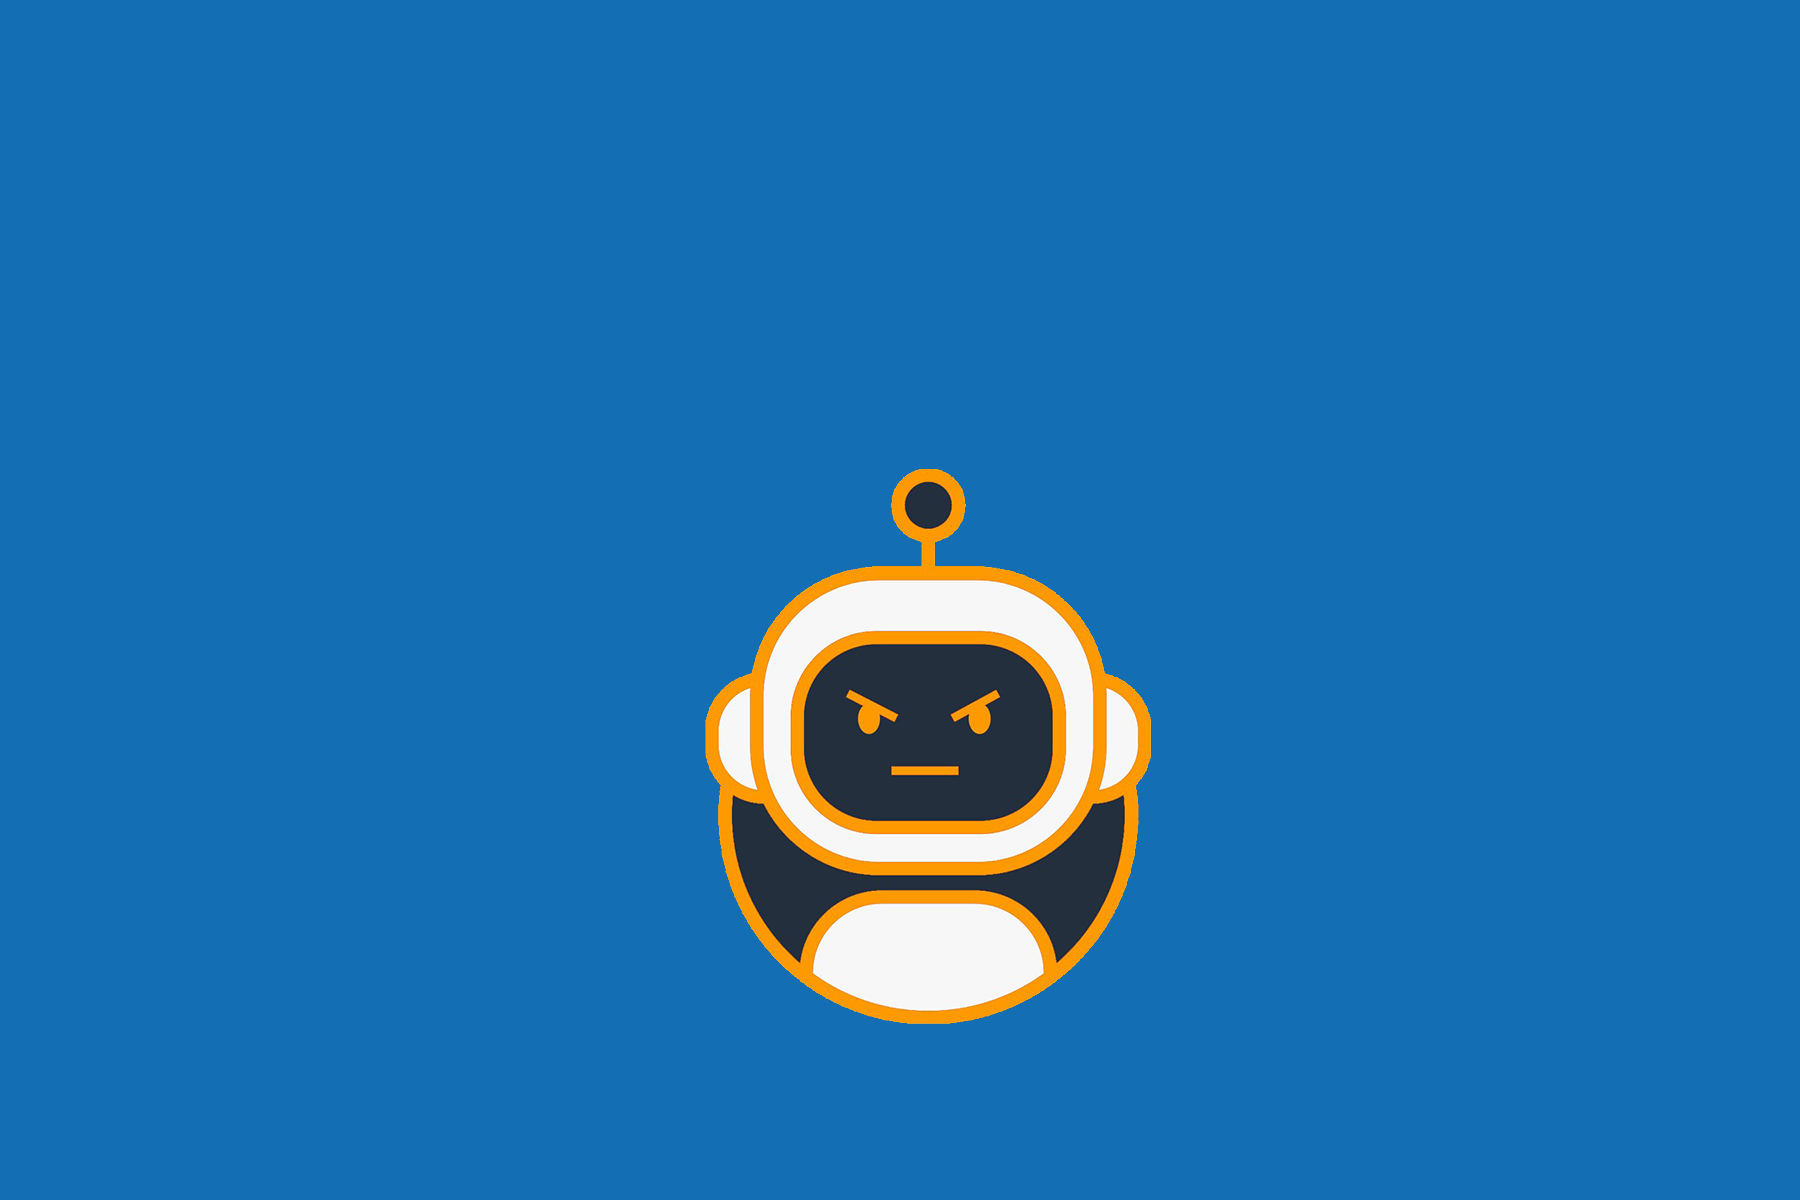
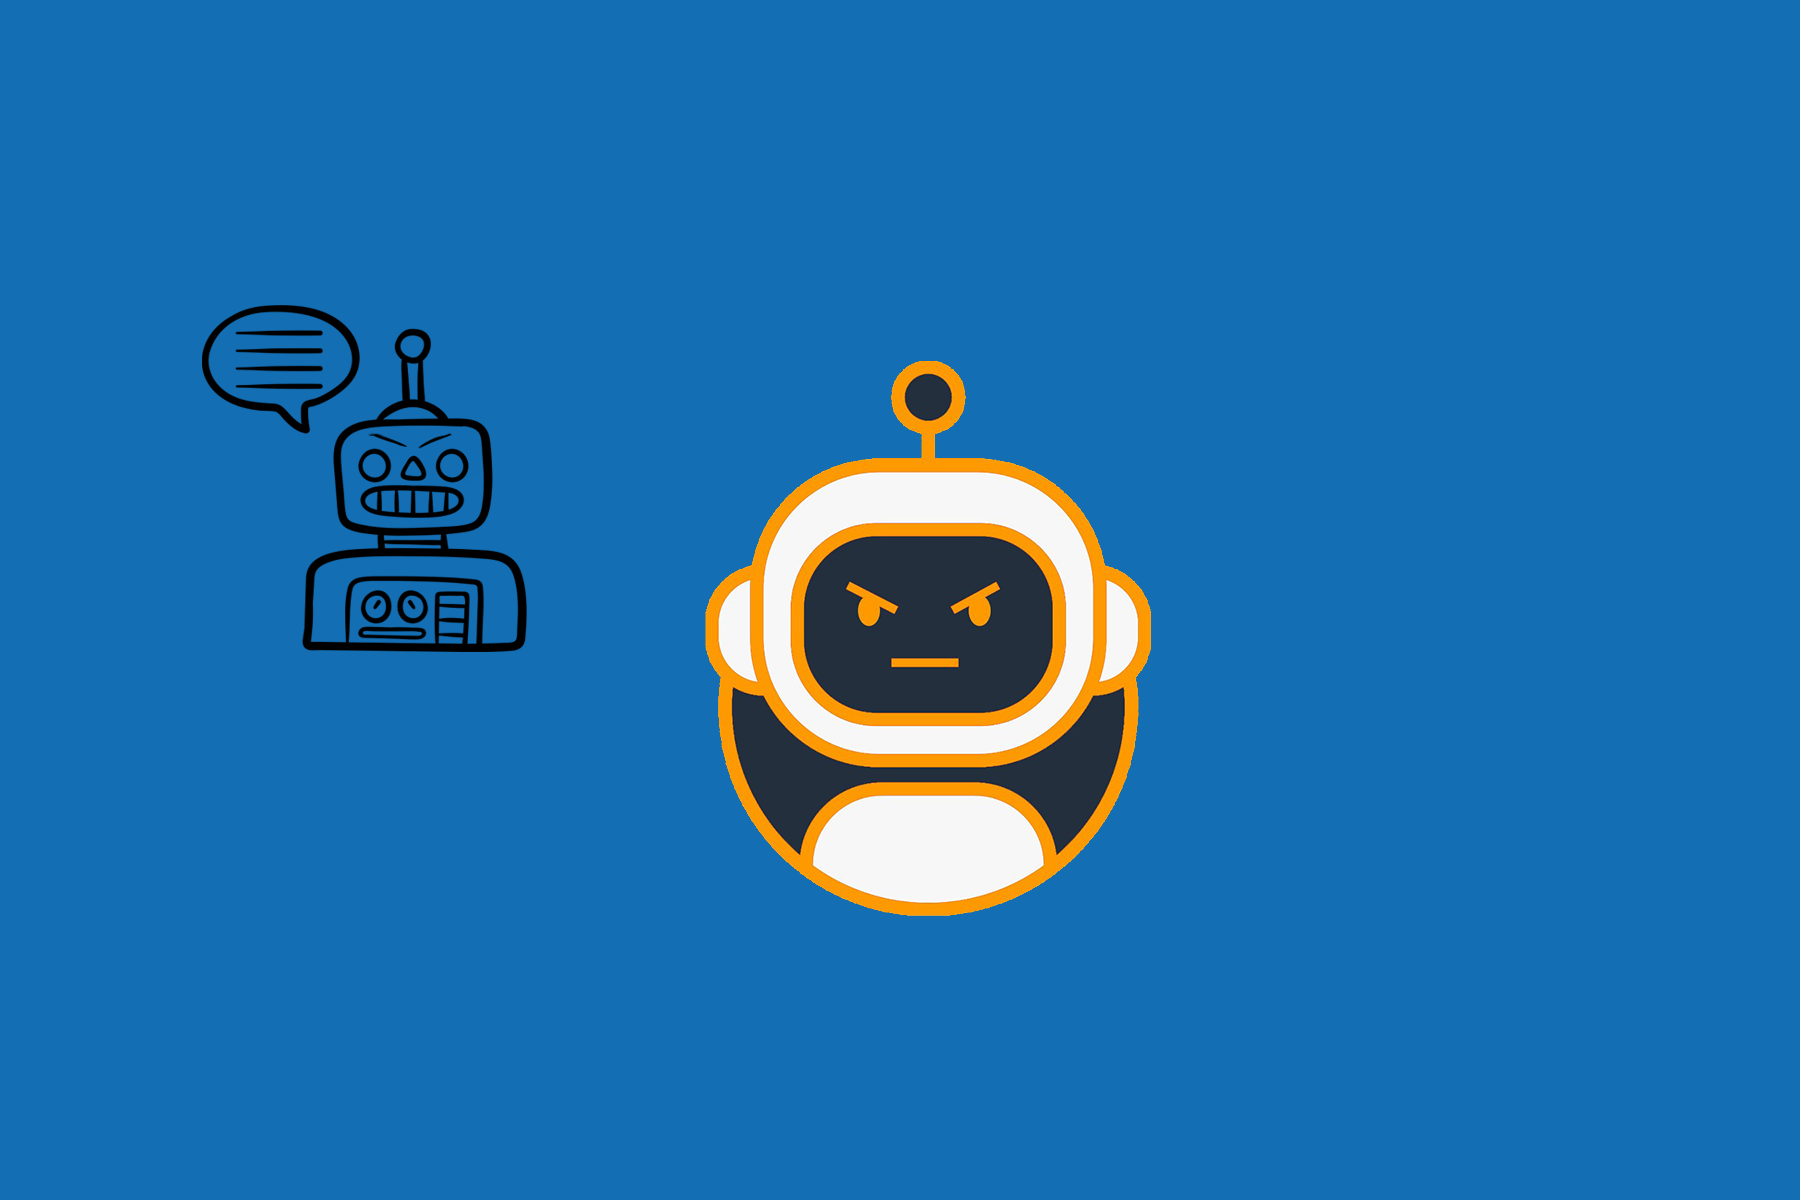
Modularización del código y arreglos en el FrontEnd

Changed region(s): [[0.3733, 0.2775, 0.6533, 0.8633], [0.0933, 0.2467, 0.3111, 0.555]]

diff --git a/index.js b/index.js
@@ -3,64 +3,10 @@ var express = require('express'); //Llamamos a la librería Express (Importar)
 var app = express(); //Ejecutamos la librería Express (Instanciar)
 //Es necesario instalar Express por npm, con el comando: npm install express --save (el --save es para que lo escriba en el package.json)
 var server = require('http').Server(app);//Creamos el servidor http y le pasamos la aplicación Express creada (app)
-const Wit = require('node-wit').Wit;//Llamamos a la librería Wit
+var NodeWit = require('./NodeWit.js');
 
 //Usamos el framework "static" para usar ficheros estáticos (ejemplo imágenes, css, etc.) en nuestro proyecto
 app.use(express.static('public'));
-
-//Token de acceso de nuestra aplicación en Wit
-var ACCESS_TOKEN = "ZBWEIXAHRV7QFSNZCZWL2GTY6DME7CLF";
-
-//Esta función envía la frase a nuestra aplicación en Wit para obtener la data procesada por el PLN
-function enviarFrase(frase) {
-    console.log('Enviando frase: "'+ frase +'" a Wit.AI');
-//Instanciamos un nuevo cliente de Wit
-    const cliente = new Wit({accessToken: ACCESS_TOKEN}); //Creamos el cliente con el Token de nuestra app
-    cliente.message(frase, {}) //Mediante el método "message" enviamos la frase a Wit, usando la instancia de nuestra app recién creada
-    .then((data) => { //En data obtenemos la respuesta de Wit (o sea la frase procesada por PLN)
-      console.log('Respuesta: ' + JSON.stringify(data)); //Mostramos el JSON "raw" o crudo
-      procesarFrase(data); //Llamamos a la función que nos va a procesar esa respuesta para obtener la intención identificada por el PLN
-    })
-    .catch(console.error);
-  }
- //Esta función recibe la data de Wit, cruda, y la procesa para sacar la intención identificada por el PLN
-function procesarFrase(data){
-    console.log("Procesando la data");
-    console.log('Mensaje recibido: "'+ data._text +'"');//En data._text viene el texto o la frase que Wit ha procesado
-    var intenciones = data.entities.intent;//En intenciones almacenamos todas las intenciones que Wit ha identificado y almacenado en la entidad "intent"
-    /*Las dos líneas siguientes las escribimos porque Wit muchas veces identifica más de una intención, cada intención
-    tiene un valor de confianza que determina qué tan acertada es esa intención respecto a la frase enviada,
-    entonces necesitamos obtener la intención con mayor grado de confianza porque esta sería la intención que
-    más se acerque a lo que buscamos con el entrenamiento*/
-    var maxConf = 0;//Variable para identificar la máxima confianza de una intención
-    var mejorIntencion = "";//Variable para almacenar la intención que tiene la mayor confianza
-    /*En este ciclo recorremos las intenciones que Wit ha identificado, para poder obtener lo descrito 
-    en la parte de arriba (La intención con mayor grado de confianza)*/
-    for (i = 0; i < intenciones.length; i++){
-        var confianza = intenciones[i].confidence;//Obtenemos el grado de confianza para esa entidad
-        /*Si la confianza en la intención actual es mayor que la confianza máxima encontrada hasta el momento,
-        entonces esa confianza pasa a ser la confianza máxima y la intención que tenga ese grado de confianza,
-        pasa a ser la mejor intención*/
-        if (confianza > maxConf) { 
-            maxConf = confianza;
-            mejorIntencion = intenciones[i].value;
-        }
-    }
-    //Debug para identificar que sea la mejor intención, con el grado de confianza más alta
-    console.log("Intención identificada: " + mejorIntencion);
-    //Llamamos a la función que va a responder al usuario, según la intención identificada
-    responder(mejorIntencion);
-}
-
-//Esta función responde al usuario, según la intención identificada
-function responder(intencion){
-    //Switch que va a responder según la intención
-    switch(intencion) {
-        case "Saludo":
-            console.log("Respuesta del bot: Hola, qué tal");
-            break;
-    }
-}
 
 //El servidor muestra el index.html cuando se ingresa a la raíz del sitio
 app.get('/', function(req, res){
@@ -73,4 +19,4 @@ server.listen(8080, function(){
 });
 /*Frase de prueba, esta función se llamará cuando se ejecute un método post y se enviará la 
 frase que venga en el request*/
-enviarFrase('Hola man');
+NodeWit.enviarFrase('Hola, ¿qué tal?');

diff --git a/NodeWit.js b/NodeWit.js
@@ -1,0 +1,58 @@
+const Wit = require('node-wit').Wit;//Llamamos a la librería Wit
+
+
+//Token de acceso de nuestra aplicación en Wit
+var ACCESS_TOKEN = "ZBWEIXAHRV7QFSNZCZWL2GTY6DME7CLF";
+
+//Este método envía la frase a nuestra aplicación en Wit para obtener la data procesada por el PLN
+exports.enviarFrase = function (frase) {
+    console.log('Enviando frase: "'+ frase +'" a Wit.AI');
+//Instanciamos un nuevo cliente de Wit
+    const cliente = new Wit({accessToken: ACCESS_TOKEN}); //Creamos el cliente con el Token de nuestra app
+    cliente.message(frase, {}) //Mediante el método "message" enviamos la frase a Wit, usando la instancia de nuestra app recién creada
+    .then((data) => { //En data obtenemos la respuesta de Wit (o sea la frase procesada por PLN)
+      console.log('Respuesta: ' + JSON.stringify(data)); //Mostramos el JSON "raw" o crudo
+      procesarFrase(data); //Llamamos al método que nos va a procesar esa respuesta para obtener la intención identificada por el PLN
+    })
+    .catch(console.error);
+  }
+
+   //Esta función recibe la data de Wit, cruda, y la procesa para sacar la intención identificada por el PLN
+function procesarFrase(data){
+    console.log("Procesando la data");
+    console.log('Mensaje recibido: "'+ data._text +'"');//En data._text viene el texto o la frase que Wit ha procesado
+    var intenciones = data.entities.intent;//En intenciones almacenamos todas las intenciones que Wit ha identificado y almacenado en la entidad "intent"
+    /*Las dos líneas siguientes las escribimos porque Wit muchas veces identifica más de una intención, cada intención
+    tiene un valor de confianza que determina qué tan acertada es esa intención respecto a la frase enviada,
+    entonces necesitamos obtener la intención con mayor grado de confianza porque esta sería la intención que
+    más se acerque a lo que buscamos con el entrenamiento*/
+    var maxConf = 0;//Variable para identificar la máxima confianza de una intención
+    var mejorIntencion = "";//Variable para almacenar la intención que tiene la mayor confianza
+    /*En este ciclo recorremos las intenciones que Wit ha identificado, para poder obtener lo descrito 
+    en la parte de arriba (La intención con mayor grado de confianza)*/
+    for (i = 0; i < intenciones.length; i++){
+        var confianza = intenciones[i].confidence;//Obtenemos el grado de confianza para esa entidad
+        /*Si la confianza en la intención actual es mayor que la confianza máxima encontrada hasta el momento,
+        entonces esa confianza pasa a ser la confianza máxima y la intención que tenga ese grado de confianza,
+        pasa a ser la mejor intención*/
+        if (confianza > maxConf) { 
+            maxConf = confianza;
+            mejorIntencion = intenciones[i].value;
+        }
+    }
+    //Debug para identificar que sea la mejor intención, con el grado de confianza más alta
+    console.log("Intención identificada: " + mejorIntencion);
+    //Llamamos a la función que va a responder al usuario, según la intención identificada
+    responder(mejorIntencion);
+}
+
+//Esta función responde al usuario, según la intención identificada
+function responder(intencion){
+    //Switch que va a responder según la intención
+    switch(intencion) {
+        case "Saludo":
+            console.log("Respuesta del bot: Hola, qué tal");
+            break;
+    }
+}
+

diff --git a/public/index.html b/public/index.html
@@ -61,15 +61,20 @@
                     <div class="row d-flex justify-content-center text-center">
                         <div class="col-md-10">
                             <!-- Heading -->
-                            <h2 class="display-4 font-weight-bold white-text pt-5 mb-2">HectorBot</h2>
+                            <h2 class="display-4 font-weight-bold white-text pt-5 mb-2 HB">HectorBot</h2>
                             <!-- Divider -->
-                            <hr class="hr-light">
+                            <hr class="hr-light HL">
+                            <div class="HBimg">
+                                <img src="/imagenes/chatbot.png" alt="">
+                            </div>
                             <!-- Description -->
                             <!--<h4 class="white-text my-4">Chupame la pija, maestro.</h4>-->
                             <!--<div class="container-fluid d-flex align-items-center justify-content-center h-100">
                                 <button type="button" class="btn btn-outline-white">Saber más<i class="fa fa-book ml-2"></i></button>
                             </div>-->
-
+                            <div class="abajo">
+                                <a href="#codigo"><img src="/imagenes/Singn-down.png" alt=""></a>
+                            </div>
                         </div>
                     </div>
                 </div>
@@ -77,6 +82,13 @@
         </div>
         <!--/.Mask-->
     </header>
+    <main class="mt-5">
+        <div class="container">
+            <section id="codigo" class="text-center">
+                <h2 class="mb-5 font-weight-bold">Código</h2>
+            </section>
+        </div>
+    </main>
 
     <!-- SCRIPTS -->
     <!-- JQuery -->

diff --git a/public/css/style.css b/public/css/style.css
@@ -6,11 +6,43 @@ header,
 }
 
 #intro {
-    background: url("/imagenes/HB.png")no-repeat center center fixed;
+    background: url("/imagenes/HB1.png")no-repeat center center fixed;
     -webkit-background-size: cover;
     -moz-background-size: cover;
     -o-background-size: cover;
     background-size: cover;
+}
+
+.abajo {
+  position: absolute;
+  top: 327%;
+  left: 54%;
+  transform: translate(-17%, -50%);
+
+}
+
+.HBimg {
+  position: absolute;
+  top: 166%;
+  left: 62%;
+  transform: translate(-50%, -50%);
+}
+
+
+
+.HB{
+  position: relative;
+  top: -45%;
+}
+
+.HL{
+  position: relative;
+  top: -57%;
+  left: 12%;
+}
+
+.abajo img {
+  width: 90%;
 }
 
 .top-nav-collapse {
